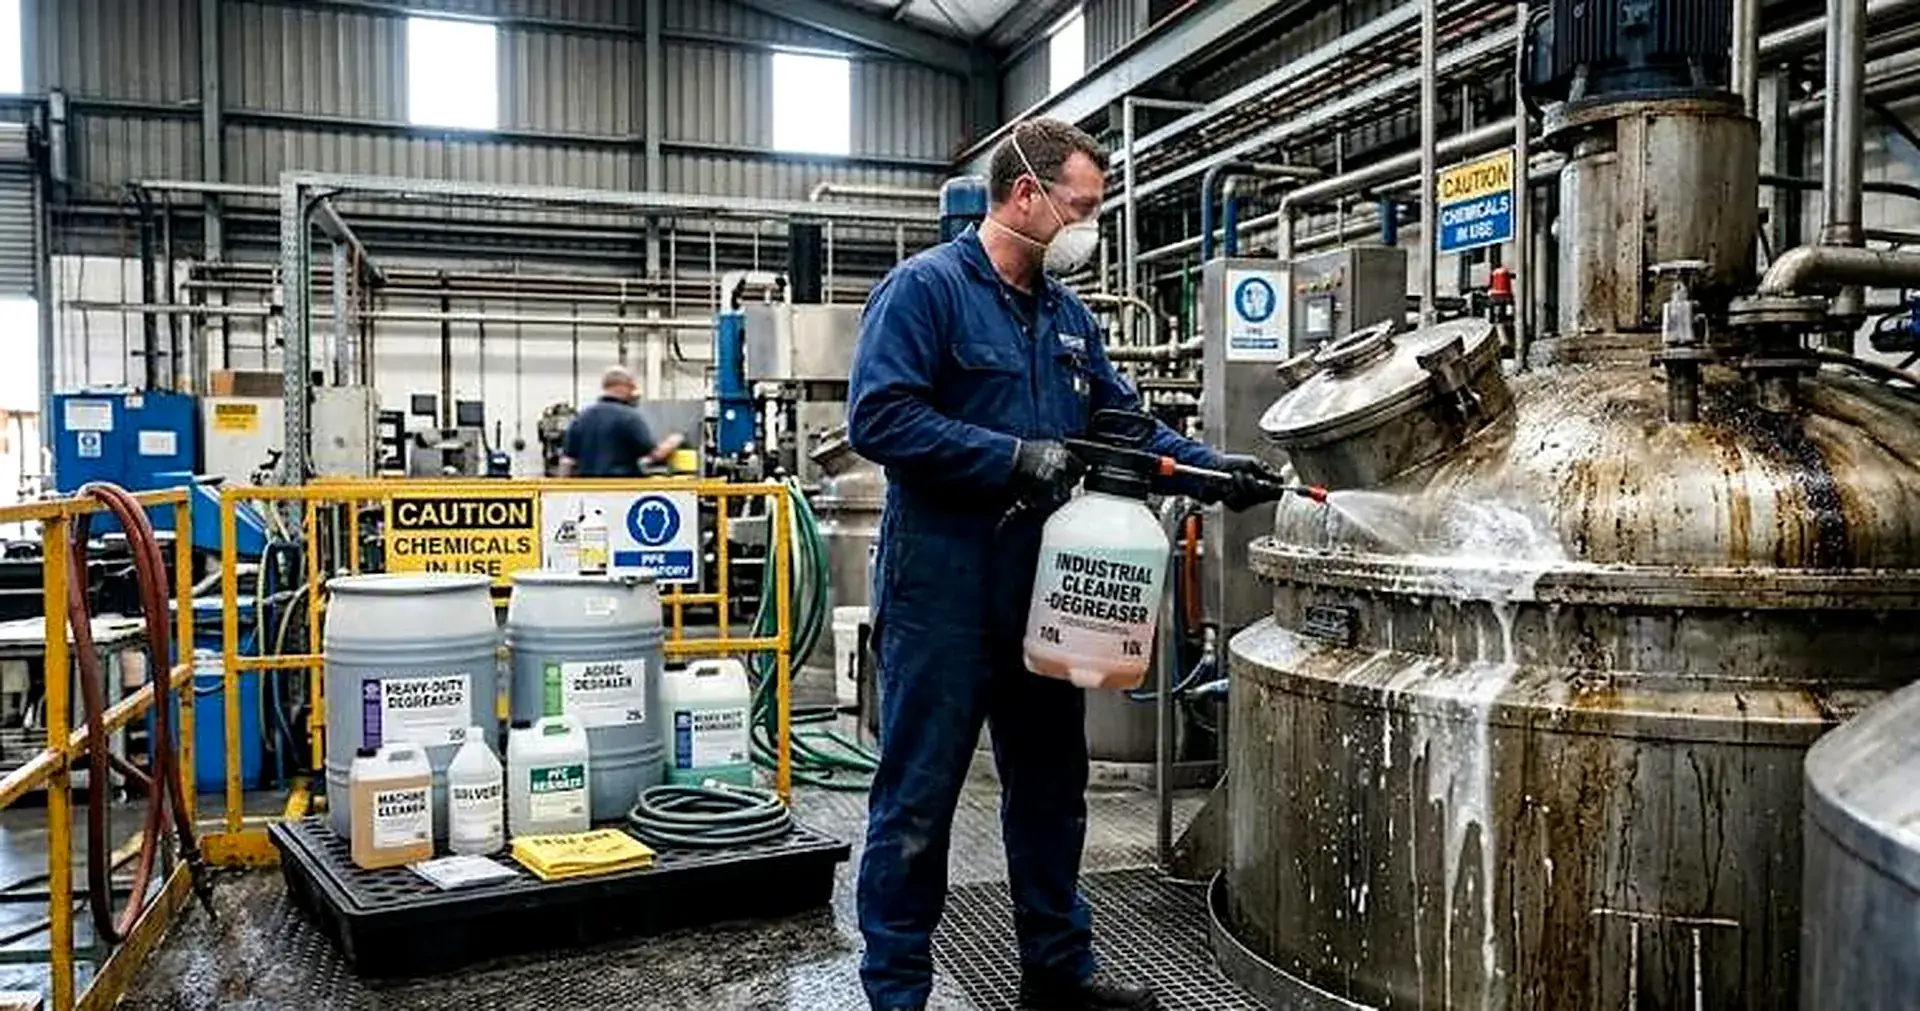
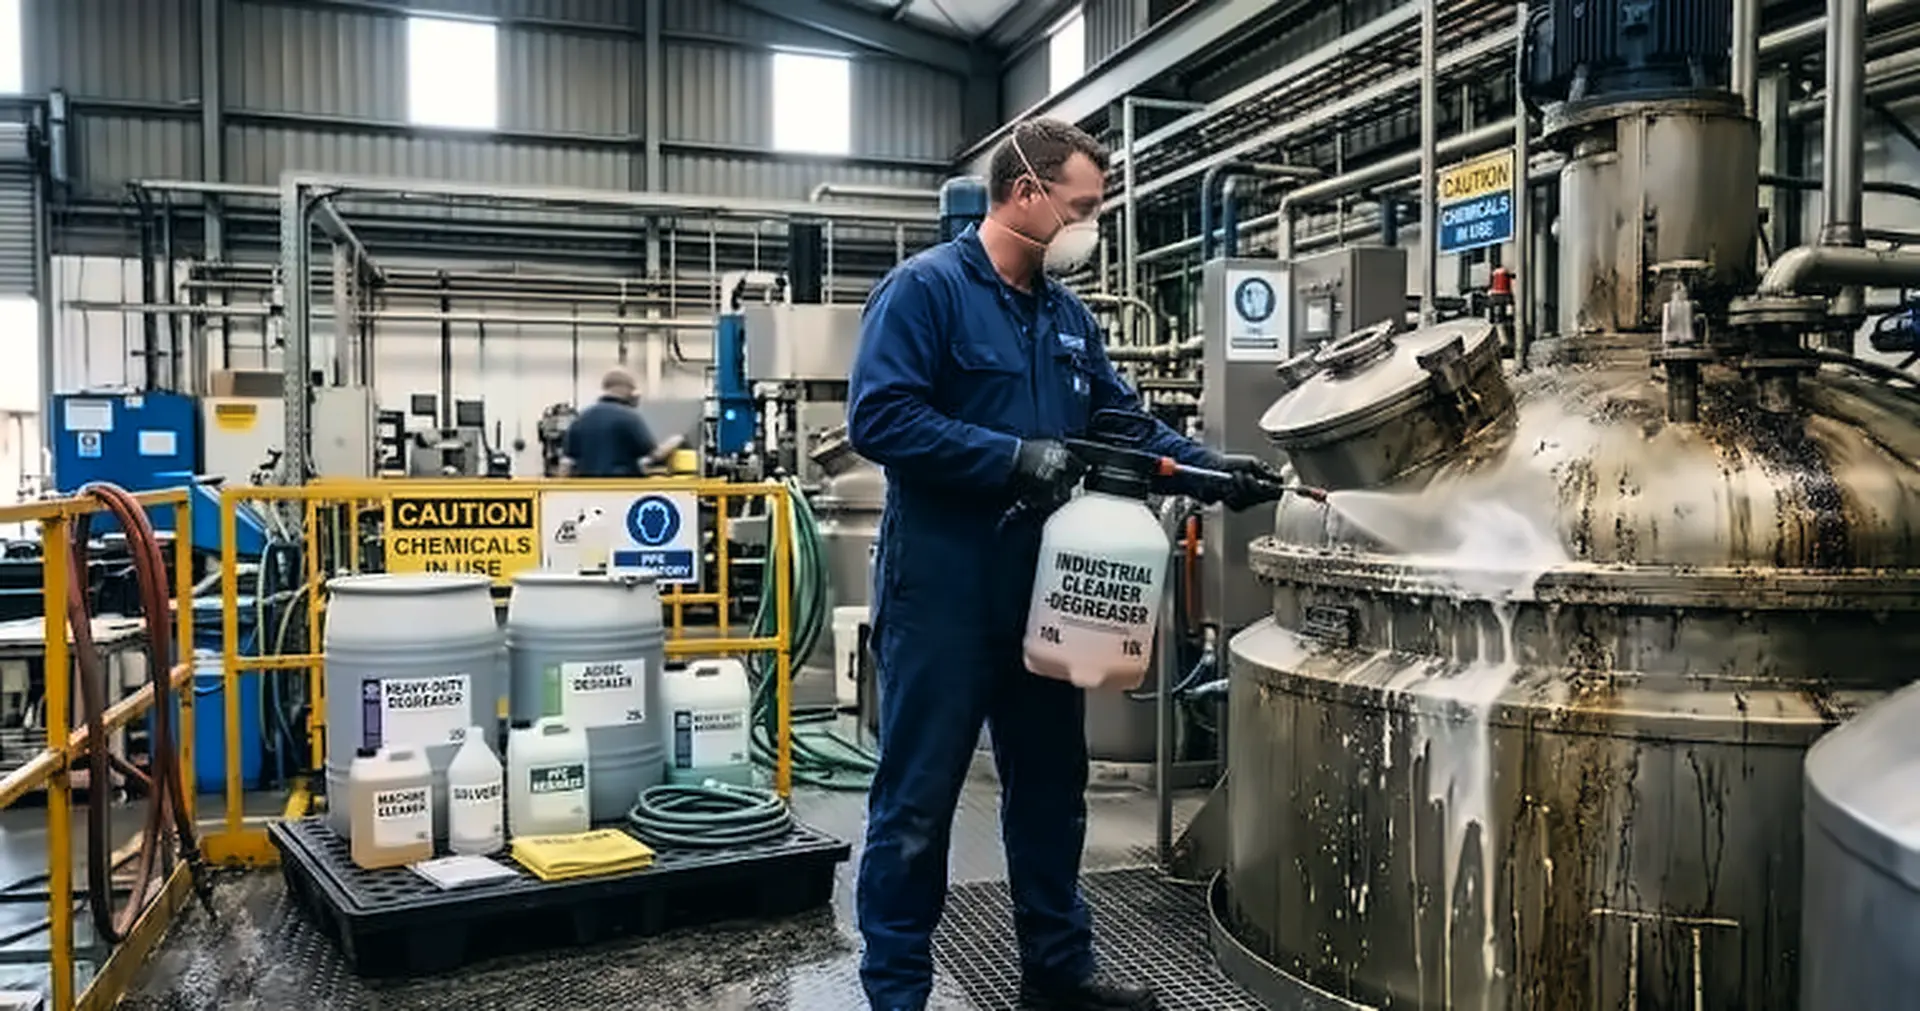
Hero v4: cinematic slider, service navigator, unified image grade
- 4.5s per slide; outgoing slide blurs out while the next fades in with a
  per-slide Ken Burns zoom and pan
- Service navigator: 7 clickable tabs (number + service) with a filling
  progress track; mobile uses dots that grow into a pill
- Caption links to the matching product page (View ->)
- Swipe on touch screens, pause on hover, arrow keys on the navigator,
  pauses in background tabs, honours reduced motion
- Soft moving light on the wave slide
- All photos denoised, upscaled to 1920px and given one shared colour grade
  (teal shadows, warm highlights); per-slide focal points for desktop and mobile

Claude-Session: https://claude.ai/code/session_01SgKrXrEfS5cA9TiGRy5iNH

diff --git a/index.html b/index.html
@@ -251,39 +251,62 @@ nav.scrolled{background:rgba(10,22,40,0.97);box-shadow:0 2px 30px rgba(0,0,0,0.5
 .hero-video-wrap{position:absolute;inset:0;width:100%;height:100%;overflow:hidden}
 .hero-video-wrap img.hero-bg{width:100%;height:100%;object-fit:cover;opacity:0.45}
 .hero-video-wrap video{width:100%;height:100%;object-fit:cover;opacity:0.45}
-/* HERO SLIDER: 7 branded slides, crossfade every 2s, gentle Ken Burns */
-.hero-slider .hs-slide{position:absolute;inset:0;margin:0;opacity:0;transition:opacity .8s ease}
-.hero-slider .hs-slide.is-on{opacity:1}
-.hero-slider .hs-slide img{width:100%;height:100%;object-fit:cover;transform:scale(1.02)}
-.hero-slider .hs-slide.is-on img{animation:hsZoom 3.2s ease-out forwards}
-@keyframes hsZoom{from{transform:scale(1.02)}to{transform:scale(1.08)}}
-#home .hero-overlay{background:radial-gradient(ellipse 60% 55% at 50% 52%,rgba(5,14,28,.58) 0%,rgba(5,14,28,.36) 60%,rgba(5,14,28,.18) 100%),linear-gradient(180deg,rgba(5,14,28,.55) 0%,transparent 22%)}
-#home .hero-overlay2{height:28%;background:linear-gradient(to top,#071222 0%,rgba(7,18,34,.6) 45%,transparent)}
+/* HERO SLIDER: cinematic crossfade + Ken Burns, service navigator, swipe, 4.5s */
+.hero-slider{--dur:4.5s;z-index:0;isolation:isolate}
+.hero-slider .hs-slide{position:absolute;inset:0;margin:0;opacity:0;transition:opacity 1.3s ease,filter 1.3s ease;overflow:hidden}
+.hero-slider .hs-slide.is-on{opacity:1;z-index:1}
+.hero-slider .hs-slide.is-out{opacity:0;filter:blur(8px) brightness(1.1);z-index:2}
+.hero-slider .hs-slide img{width:100%;height:100%;object-fit:cover;object-position:var(--pd);transform:scale(1.04);will-change:transform}
+.hero-slider .hs-slide.is-on img,.hero-slider .hs-slide.is-out img{animation:hsKB calc(var(--dur) + 1.6s) cubic-bezier(.25,.1,.25,1) forwards}
+@keyframes hsKB{from{transform:scale(1.04) translate(0,0)}to{transform:scale(1.13) translate(var(--kx),var(--ky))}}
+.hs-water::after{content:"";position:absolute;inset:-10%;background:radial-gradient(ellipse 30% 22% at 38% 42%,rgba(167,243,208,.35),transparent 70%),radial-gradient(ellipse 22% 16% at 62% 30%,rgba(255,255,255,.18),transparent 70%);mix-blend-mode:screen;animation:hsShimmer 6s ease-in-out infinite alternate;pointer-events:none}
+@keyframes hsShimmer{0%{transform:translate(-3%,1%) scale(1);opacity:.6}100%{transform:translate(3%,-2%) scale(1.08);opacity:1}}
+#home .hero-overlay{background:radial-gradient(ellipse 60% 55% at 50% 50%,rgba(5,14,28,.6) 0%,rgba(5,14,28,.38) 60%,rgba(5,14,28,.2) 100%),linear-gradient(180deg,rgba(5,14,28,.55) 0%,transparent 22%)}
+#home .hero-overlay2{height:34%;background:linear-gradient(to top,#071222 0%,rgba(7,18,34,.75) 38%,transparent)}
 #home .hero-h1,#home .hero-sub,#home .hero-slogan{text-shadow:0 2px 18px rgba(0,0,0,.55)}
-.hs-ui{position:absolute;left:clamp(16px,4vw,56px);right:clamp(96px,8vw,120px);bottom:clamp(84px,9vh,96px);z-index:3;display:flex;align-items:flex-end;justify-content:space-between;gap:1rem;pointer-events:none}
-.hs-cap{display:flex;align-items:center;gap:.75rem;font-family:'Barlow Condensed',sans-serif;text-transform:uppercase;letter-spacing:.14em;color:#fff;background:rgba(7,18,34,.55);backdrop-filter:blur(8px);-webkit-backdrop-filter:blur(8px);border:1px solid rgba(0,180,166,.35);border-left:3px solid var(--teal);padding:.55rem 1rem;border-radius:2px;max-width:min(78vw,520px)}
+#home .hero-scroll{display:none}
+.hs-ui{position:absolute;left:clamp(16px,4vw,56px);right:clamp(96px,8vw,120px);bottom:28px;z-index:3;display:flex;flex-direction:column;align-items:flex-start;gap:14px}
+.hs-cap{display:flex;align-items:center;gap:.75rem;font-family:'Barlow Condensed',sans-serif;text-transform:uppercase;letter-spacing:.14em;color:#fff;text-decoration:none;background:rgba(7,18,34,.55);backdrop-filter:blur(10px);-webkit-backdrop-filter:blur(10px);border:1px solid rgba(0,180,166,.35);border-left:3px solid var(--teal);padding:.55rem 1rem;border-radius:2px;max-width:100%;transition:background .3s,border-color .3s}
+.hs-cap:hover{background:rgba(0,180,166,.22);border-color:var(--teal)}
 .hs-num{font-weight:700;font-size:1.05rem;color:var(--teal)}
 .hs-bar{width:22px;height:1px;background:rgba(255,255,255,.45);flex:none}
-.hs-txt{font-weight:500;font-size:.86rem;line-height:1.2;transition:opacity .35s}
-.hs-prog{display:flex;gap:6px}
-.hs-prog i{display:block;width:26px;height:3px;border-radius:2px;background:rgba(255,255,255,.25);overflow:hidden;position:relative}
-.hs-prog i.on::after{content:"";position:absolute;inset:0;background:var(--teal);transform-origin:left;animation:hsFill 2s linear forwards}
-@keyframes hsFill{from{transform:scaleX(0)}to{transform:scaleX(1)}}
+.hs-txt{font-weight:500;font-size:.86rem;line-height:1.2;transition:opacity .4s,transform .4s}
+.hs-cap.swap .hs-txt{opacity:0;transform:translateY(6px)}
+.hs-go{margin-left:.4rem;padding-left:.75rem;border-left:1px solid rgba(255,255,255,.25);color:var(--teal);font-weight:700;font-size:.78rem;white-space:nowrap}
+.hs-nav{display:grid;grid-template-columns:repeat(7,1fr);gap:10px;width:100%}
+.hs-tab{all:unset;cursor:pointer;display:grid;grid-template-columns:auto 1fr;column-gap:.5rem;row-gap:.45rem;align-items:baseline;color:rgba(255,255,255,.55);font-family:'Barlow Condensed',sans-serif;text-transform:uppercase;letter-spacing:.12em;transition:color .3s}
+.hs-tab:hover,.hs-tab.on{color:#fff}
+.hs-tab:focus-visible{outline:2px solid var(--teal);outline-offset:4px}
+.hs-track{grid-column:1/-1;height:3px;border-radius:2px;background:rgba(255,255,255,.2);overflow:hidden;position:relative}
+.hs-track i{position:absolute;inset:0;background:linear-gradient(90deg,var(--teal),#5eead4);transform:scaleX(0);transform-origin:left}
+.hs-tab.done .hs-track i{transform:scaleX(1);opacity:.45}
+.hs-tab.on .hs-track i{animation:hsFill var(--dur) linear forwards}
+.hero-slider.paused~.hs-ui .hs-tab.on .hs-track i{animation-play-state:paused}
+@keyframes hsFill{to{transform:scaleX(1)}}
+.hs-tn{font-weight:700;font-size:.85rem;color:var(--teal)}
+.hs-tab:not(.on) .hs-tn{color:inherit}
+.hs-tl{font-weight:500;font-size:.72rem;white-space:nowrap;overflow:hidden;text-overflow:ellipsis}
+@media(max-width:1100px) and (min-width:769px){.hs-tl{display:none}.hs-nav{max-width:420px}}
 @media(max-width:768px){
 #home{justify-content:flex-start;min-height:auto;padding:72px 0 2.5rem}
-#home .hero-slider{position:relative;inset:auto;width:100%;height:auto;aspect-ratio:4/3;flex:none}
-#home .hero-slider::after{content:"";position:absolute;inset:0;background:linear-gradient(180deg,rgba(7,18,34,.25) 0%,transparent 30%,transparent 62%,#071222 100%);pointer-events:none;z-index:1}
-.hero-slider .hs-slide.is-on img{animation-name:hsZoomM}
-@keyframes hsZoomM{from{transform:scale(1)}to{transform:scale(1.05)}}
-#home .hero-overlay,#home .hero-overlay2,#home .hero-scroll,#home .hero-logo-big{display:none}
-.hs-ui{top:calc(72px + 75vw - 52px);bottom:auto;left:16px;right:16px;align-items:center}
-.hs-cap{padding:.4rem .7rem;gap:.5rem;max-width:62vw;backdrop-filter:blur(6px)}
-.hs-txt{font-size:.7rem;letter-spacing:.1em}.hs-num{font-size:.85rem}.hs-bar{width:12px}
-.hs-prog{gap:4px}.hs-prog i{width:12px}
+#home .hero-slider{position:relative;inset:auto;width:100%;height:auto;aspect-ratio:4/3;flex:none;touch-action:pan-y}
+#home .hero-slider::after{content:"";position:absolute;inset:0;background:linear-gradient(180deg,rgba(7,18,34,.3) 0%,transparent 28%,transparent 58%,#071222 100%);pointer-events:none;z-index:3}
+.hero-slider .hs-slide img{object-position:var(--pm)}
+#home .hero-overlay,#home .hero-overlay2,#home .hero-logo-big{display:none}
+.hs-ui{top:calc(72px + 75vw - 64px);bottom:auto;left:16px;right:16px;flex-direction:row;align-items:center;justify-content:space-between;gap:10px}
+.hs-cap{padding:.4rem .65rem;gap:.45rem;min-width:0;backdrop-filter:blur(6px)}
+.hs-txt{font-size:.68rem;letter-spacing:.08em;white-space:nowrap;overflow:hidden;text-overflow:ellipsis;min-width:0}.hs-num{font-size:.85rem}.hs-bar{display:none}
+.hs-go{font-size:.68rem;padding-left:.5rem;margin-left:.2rem}
+.hs-nav{display:flex;width:auto;gap:5px;flex:none}
+.hs-tab{display:block;padding:8px 0}
+.hs-tab .hs-tn,.hs-tab .hs-tl{display:none}
+.hs-track{display:block;width:7px;height:7px;border-radius:4px;transition:width .4s}
+.hs-tab.on .hs-track{width:24px}
+.hs-tab.done .hs-track i{opacity:0}
 #home .hero-content{margin-top:.25rem;padding:0 16px}
 #home .hero-h1,#home .hero-sub,#home .hero-slogan{text-shadow:none}
 }
-@media(prefers-reduced-motion:reduce){.hero-slider .hs-slide.is-on img,.hs-prog i.on::after{animation:none}}
+@media(prefers-reduced-motion:reduce){.hero-slider .hs-slide img,.hs-water::after,.hs-tab.on .hs-track i{animation:none!important}.hs-tab.on .hs-track i{transform:scaleX(1)}}
 .hero-overlay{position:absolute;inset:0;background:linear-gradient(135deg,rgba(7,18,34,0.72) 0%,rgba(0,30,60,0.45) 50%,rgba(7,18,34,0.88) 100%)}
 .hero-overlay2{position:absolute;bottom:0;left:0;right:0;height:35%;background:linear-gradient(to top,#071222,transparent)}
 .hero-content{position:relative;z-index:2;text-align:center;padding:2rem;max-width:960px}
@@ -1474,18 +1497,18 @@ em .typing-cursor { background: var(--gold); box-shadow: 0 0 10px rgba(212,168,6
 <!-- HERO -->
 <main id="main">
 <section id="home">
-  <div class="hero-video-wrap hero-slider" id="heroSlider">
-    <figure class="hs-slide is-on" data-cap="Water Safe Water Treatment Technologies"><img src="images/hero/ocean-wave.webp" srcset="images/hero/ocean-wave-sm.webp 960w, images/hero/ocean-wave.webp 1920w" fetchpriority="high" sizes="100vw" width="1920" height="1080" alt="Powerful curling ocean wave in teal and emerald tones" style="object-position:42% 50%" decoding="async"></figure>
-    <figure class="hs-slide" data-cap="Steam Boiler Supply & Erection"><img data-src="images/hero/steam-boilers.webp" data-srcset="images/hero/steam-boilers-sm.webp 960w, images/hero/steam-boilers.webp 1920w" sizes="100vw" width="1920" height="1080" alt="Twin fire-tube steam boilers with burners in a boiler house" style="object-position:center" decoding="async"></figure>
-    <figure class="hs-slide" data-cap="ECO-Series Textile Auxiliaries"><img data-src="images/hero/textile-finishing-range.webp" data-srcset="images/hero/textile-finishing-range-sm.webp 960w, images/hero/textile-finishing-range.webp 1920w" sizes="100vw" width="1920" height="1080" alt="Textile finishing range with fabric batching rolls" style="object-position:center" decoding="async"></figure>
-    <figure class="hs-slide" data-cap="Cooling Tower Water Treatment"><img data-src="images/hero/cooling-tower.webp" data-srcset="images/hero/cooling-tower-sm.webp 960w, images/hero/cooling-tower.webp 1920w" sizes="100vw" width="1920" height="1080" alt="Industrial cooling tower cells on a plant rooftop" style="object-position:center 40%" decoding="async"></figure>
-    <figure class="hs-slide" data-cap="RO Plants & Membrane Chemicals"><img data-src="images/hero/ro-plant.webp" data-srcset="images/hero/ro-plant-sm.webp 960w, images/hero/ro-plant.webp 1920w" sizes="100vw" width="1920" height="1080" alt="Industrial reverse osmosis plant with membrane pressure vessels" style="object-position:center" decoding="async"></figure>
-    <figure class="hs-slide" data-cap="Industrial Exhaust Fans"><img data-src="images/hero/industrial-exhaust-fan.webp" data-srcset="images/hero/industrial-exhaust-fan-sm.webp 960w, images/hero/industrial-exhaust-fan.webp 1920w" sizes="100vw" width="1920" height="1080" alt="Stainless steel industrial axial exhaust fan" style="object-position:center 45%" decoding="async"></figure>
-    <figure class="hs-slide" data-cap="Industrial Cleaning Chemicals"><img data-src="images/hero/industrial-cleaning.webp" data-srcset="images/hero/industrial-cleaning-sm.webp 960w, images/hero/industrial-cleaning.webp 1920w" sizes="100vw" width="1920" height="1080" alt="Technician applying industrial cleaner degreaser to process equipment" style="object-position:center 40%" decoding="async"></figure>
+  <div class="hero-video-wrap hero-slider" id="heroSlider" role="region" aria-roledescription="carousel" aria-label="Seamens services">
+    <figure class="hs-slide is-on hs-water" data-cap="Water Safe Water Treatment Technologies" data-href="/products/cooling-tower-chiller-ro" style="--pd:40% 50%;--pm:35% 50%;--kx:-2%;--ky:0" aria-roledescription="slide" aria-label="1 of 7: Water Treatment"><img src="images/hero/ocean-wave.webp" srcset="images/hero/ocean-wave-sm.webp 960w, images/hero/ocean-wave.webp 1920w" fetchpriority="high" sizes="100vw" width="1920" height="1080" alt="Powerful curling ocean wave in teal and emerald tones" decoding="async"></figure>
+    <figure class="hs-slide" data-cap="Steam Boiler Supply &amp; Water Treatment" data-href="/products/boiler-water-treatment-humidification" style="--pd:50% 60%;--pm:50% 62%;--kx:0;--ky:-1.5%" aria-roledescription="slide" aria-label="2 of 7: Boilers"><img data-src="images/hero/steam-boilers.webp" data-srcset="images/hero/steam-boilers-sm.webp 960w, images/hero/steam-boilers.webp 1920w" sizes="100vw" width="1920" height="1080" alt="Twin fire-tube steam boilers with burners in a boiler house" decoding="async"></figure>
+    <figure class="hs-slide" data-cap="ECO-Series Textile Auxiliaries" data-href="/products/textile-auxiliaries" style="--pd:45% 55%;--pm:30% 55%;--kx:2%;--ky:0" aria-roledescription="slide" aria-label="3 of 7: Textile"><img data-src="images/hero/textile-finishing-range.webp" data-srcset="images/hero/textile-finishing-range-sm.webp 960w, images/hero/textile-finishing-range.webp 1920w" sizes="100vw" width="1920" height="1080" alt="Textile finishing range with fabric batching rolls" decoding="async"></figure>
+    <figure class="hs-slide" data-cap="Cooling Tower Water Treatment" data-href="/products/cooling-tower-chiller-ro" style="--pd:50% 40%;--pm:40% 45%;--kx:-1.5%;--ky:1%" aria-roledescription="slide" aria-label="4 of 7: Cooling Towers"><img data-src="images/hero/cooling-tower.webp" data-srcset="images/hero/cooling-tower-sm.webp 960w, images/hero/cooling-tower.webp 1920w" sizes="100vw" width="1920" height="1080" alt="Industrial cooling tower cells on a plant rooftop" decoding="async"></figure>
+    <figure class="hs-slide" data-cap="RO Plants &amp; Membrane Chemicals" data-href="/products/cooling-tower-chiller-ro" style="--pd:50% 50%;--pm:45% 50%;--kx:1.5%;--ky:-1%" aria-roledescription="slide" aria-label="5 of 7: RO Plants"><img data-src="images/hero/ro-plant.webp" data-srcset="images/hero/ro-plant-sm.webp 960w, images/hero/ro-plant.webp 1920w" sizes="100vw" width="1920" height="1080" alt="Industrial reverse osmosis plant with membrane pressure vessels" decoding="async"></figure>
+    <figure class="hs-slide" data-cap="Industrial Exhaust Fans" data-href="/products/plant-erection-machinery-parts" style="--pd:50% 45%;--pm:50% 45%;--kx:0;--ky:1.5%" aria-roledescription="slide" aria-label="6 of 7: Exhaust Fans"><img data-src="images/hero/industrial-exhaust-fan.webp" data-srcset="images/hero/industrial-exhaust-fan-sm.webp 960w, images/hero/industrial-exhaust-fan.webp 1920w" sizes="100vw" width="1920" height="1080" alt="Stainless steel industrial axial exhaust fan" decoding="async"></figure>
+    <figure class="hs-slide" data-cap="Industrial Cleaning Chemicals" data-href="/products/industrial-cleaning-chemicals" style="--pd:55% 40%;--pm:62% 40%;--kx:-2%;--ky:0" aria-roledescription="slide" aria-label="7 of 7: Cleaning"><img data-src="images/hero/industrial-cleaning.webp" data-srcset="images/hero/industrial-cleaning-sm.webp 960w, images/hero/industrial-cleaning.webp 1920w" sizes="100vw" width="1920" height="1080" alt="Technician applying industrial cleaner degreaser to process equipment" decoding="async"></figure>
   </div>
-  <div class="hs-ui" aria-hidden="true">
-    <div class="hs-cap"><span class="hs-num" id="hsNum">01</span><span class="hs-bar"></span><span class="hs-txt" id="hsTxt">Water Safe Water Treatment Technologies</span></div>
-    <div class="hs-prog" id="hsProg"><i></i><i></i><i></i><i></i><i></i><i></i><i></i></div>
+  <div class="hs-ui">
+    <a class="hs-cap" id="hsCap" href="/products/cooling-tower-chiller-ro"><span class="hs-num" id="hsNum">01</span><span class="hs-bar"></span><span class="hs-txt" id="hsTxt">Water Safe Water Treatment Technologies</span><span class="hs-go">View <span aria-hidden="true">&rarr;</span></span></a>
+    <div class="hs-nav" id="hsNav"><button type="button" class="hs-tab on" aria-label="Show slide 1: Water Treatment" aria-current="true"><span class="hs-track"><i></i></span><span class="hs-tn">01</span><span class="hs-tl">Water Treatment</span></button><button type="button" class="hs-tab" aria-label="Show slide 2: Boilers"><span class="hs-track"><i></i></span><span class="hs-tn">02</span><span class="hs-tl">Boilers</span></button><button type="button" class="hs-tab" aria-label="Show slide 3: Textile"><span class="hs-track"><i></i></span><span class="hs-tn">03</span><span class="hs-tl">Textile</span></button><button type="button" class="hs-tab" aria-label="Show slide 4: Cooling Towers"><span class="hs-track"><i></i></span><span class="hs-tn">04</span><span class="hs-tl">Cooling Towers</span></button><button type="button" class="hs-tab" aria-label="Show slide 5: RO Plants"><span class="hs-track"><i></i></span><span class="hs-tn">05</span><span class="hs-tl">RO Plants</span></button><button type="button" class="hs-tab" aria-label="Show slide 6: Exhaust Fans"><span class="hs-track"><i></i></span><span class="hs-tn">06</span><span class="hs-tl">Exhaust Fans</span></button><button type="button" class="hs-tab" aria-label="Show slide 7: Cleaning"><span class="hs-track"><i></i></span><span class="hs-tn">07</span><span class="hs-tl">Cleaning</span></button></div>
   </div>
   <div class="hero-overlay"></div>
   <div class="hero-overlay2"></div>
@@ -2954,14 +2977,26 @@ const TypingEngine = {
 <div class="sx-bar"><a href="tel:+923054444125">Call</a><a href="https://wa.me/923054444125" target="_blank" rel="noopener">WhatsApp</a><a href="/request-quote">Get a Quote</a></div>
 <script>
 (function(){var el=document.getElementById('heroSlider');if(!el)return;
-var sl=el.querySelectorAll('.hs-slide'),bars=document.querySelectorAll('#hsProg i'),num=document.getElementById('hsNum'),txt=document.getElementById('hsTxt'),i=0,t;
-function show(n){sl[i].classList.remove('is-on');bars[i].classList.remove('on');i=n;sl[i].classList.add('is-on');void bars[i].offsetWidth;bars[i].classList.add('on');num.textContent=(i<9?'0':'')+(i+1);txt.textContent=sl[i].dataset.cap}
-bars[0].classList.add('on');
-if(window.matchMedia('(prefers-reduced-motion: reduce)').matches)return;
-function load(){sl.forEach(function(s){var m=s.querySelector('img[data-src]');if(m){m.srcset=m.dataset.srcset;m.src=m.dataset.src;m.removeAttribute('data-src')}})}
-function go(){clearInterval(t);t=setInterval(function(){show((i+1)%sl.length)},2000)}
+var sl=el.querySelectorAll('.hs-slide'),tabs=document.querySelectorAll('#hsNav .hs-tab'),cap=document.getElementById('hsCap'),num=document.getElementById('hsNum'),txt=document.getElementById('hsTxt'),
+i=0,t=null,loaded=false,hover=false,DUR=4500,rm=window.matchMedia('(prefers-reduced-motion: reduce)').matches;
+function load(){if(loaded)return;loaded=true;sl.forEach(function(s){var m=s.querySelector('img[data-src]');if(m){m.srcset=m.dataset.srcset;m.src=m.dataset.src;m.removeAttribute('data-src')}})}
+function show(n){if(n===i)return;load();var prev=sl[i];prev.classList.remove('is-on');prev.classList.add('is-out');setTimeout(function(){prev.classList.remove('is-out')},1400);
+tabs[i].classList.remove('on');tabs[i].removeAttribute('aria-current');
+tabs.forEach(function(b,k){b.classList.toggle('done',k<n)});
+i=n;var s=sl[i];s.classList.add('is-on');var im=s.querySelector('img');im.style.animation='none';void im.offsetWidth;im.style.animation='';
+tabs[i].classList.add('on');tabs[i].setAttribute('aria-current','true');var tr=tabs[i].querySelector('.hs-track i');tr.style.animation='none';void tr.offsetWidth;tr.style.animation='';
+cap.classList.add('swap');setTimeout(function(){num.textContent=(i<9?'0':'')+(i+1);txt.innerHTML=s.dataset.cap;cap.href=s.dataset.href;cap.classList.remove('swap')},300);go()}
+function next(){show((i+1)%sl.length)}function prev(){show((i-1+sl.length)%sl.length)}
+function go(){clearTimeout(t);if(rm||hover||document.hidden)return;t=setTimeout(next,DUR)}
+tabs.forEach(function(b,k){b.addEventListener('click',function(){show(k)})});
+document.getElementById('hsNav').addEventListener('keydown',function(e){if(e.key==='ArrowRight'){next();tabs[i].focus()}else if(e.key==='ArrowLeft'){prev();tabs[i].focus()}});
+if(window.matchMedia('(hover:hover) and (pointer:fine)').matches){var home=document.getElementById('home');
+home.addEventListener('mouseenter',function(){hover=true;clearTimeout(t);el.classList.add('paused')});
+home.addEventListener('mouseleave',function(){hover=false;el.classList.remove('paused');go()})}
+var x0=null,y0=0;el.addEventListener('touchstart',function(e){x0=e.touches[0].clientX;y0=e.touches[0].clientY},{passive:true});
+el.addEventListener('touchend',function(e){if(x0===null)return;var dx=e.changedTouches[0].clientX-x0,dy=e.changedTouches[0].clientY-y0;if(Math.abs(dx)>40&&Math.abs(dx)>Math.abs(dy)){dx<0?next():prev()}x0=null},{passive:true});
+document.addEventListener('visibilitychange',go);
 window.addEventListener('load',function(){load();go()});
-document.addEventListener('visibilitychange',function(){document.hidden?clearInterval(t):go()});
 })();
 </script>
 </body>
